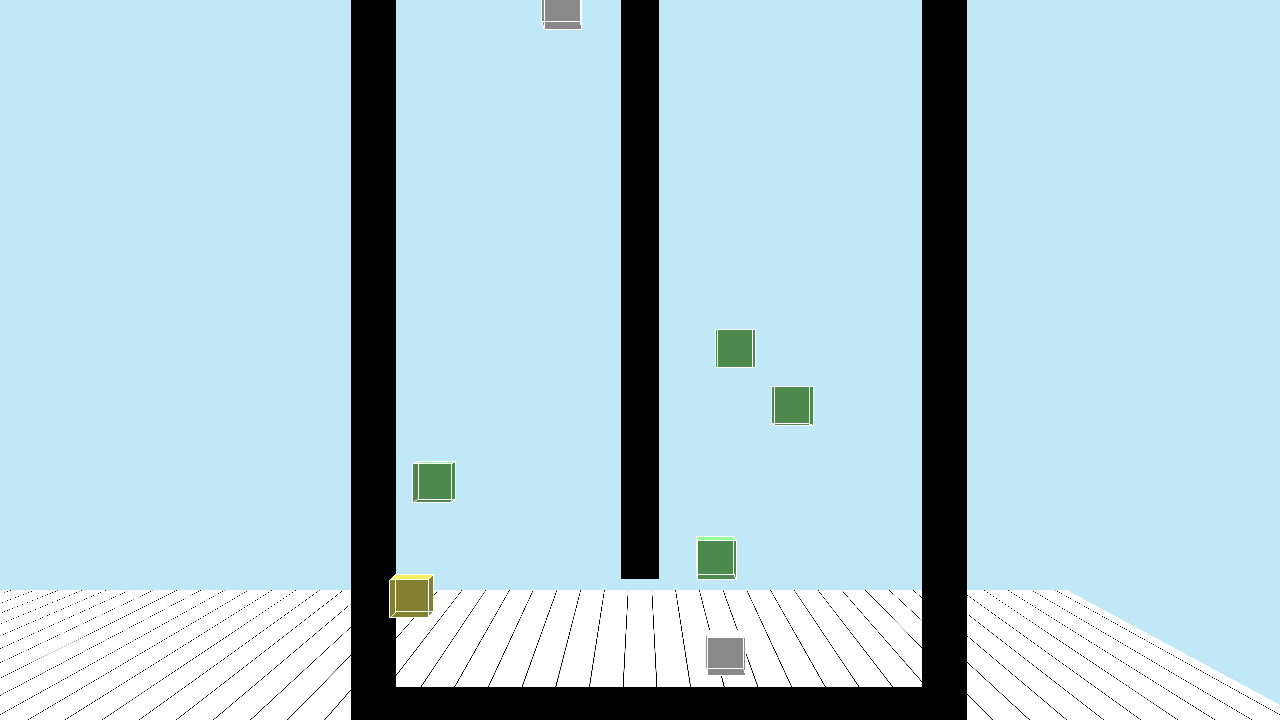
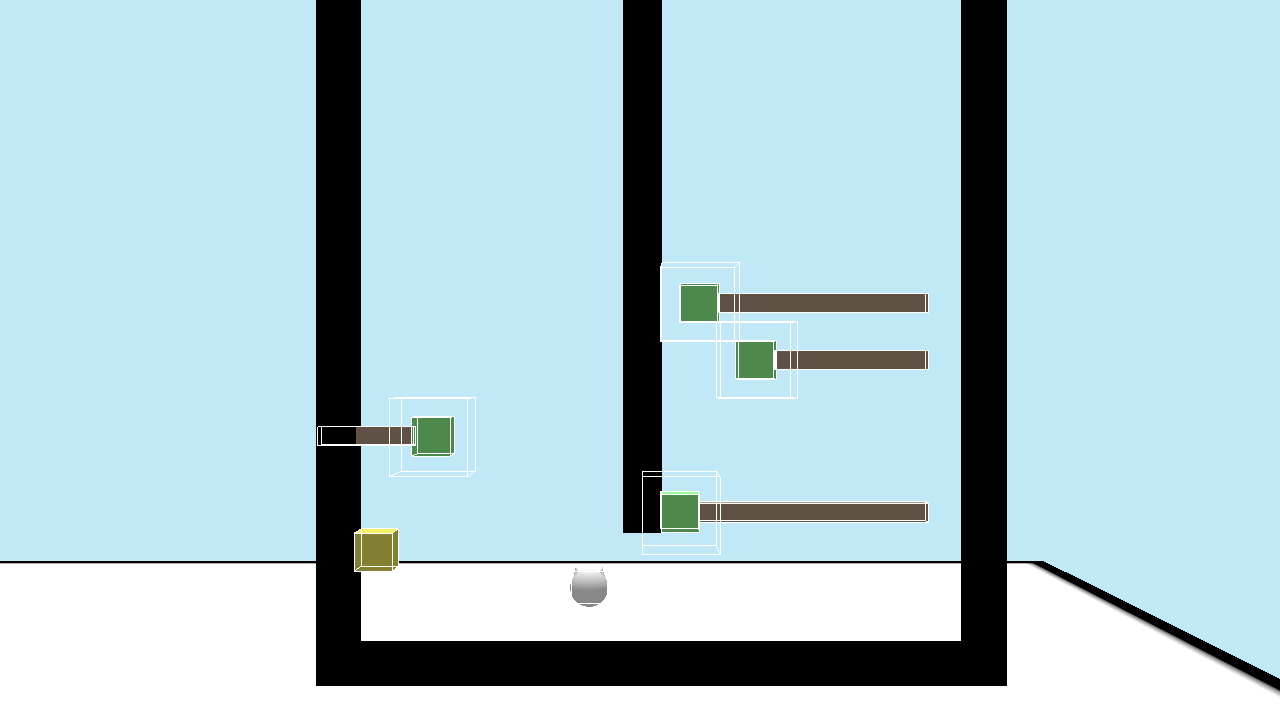
コミット

Changed region(s): [[0.0, 0.0, 1.0, 1.0], [0.4062, 0.0, 0.4688, 0.0611]]

diff --git a/Application/Objects/EnemyManager/SideEnemy.cpp b/Application/Objects/EnemyManager/SideEnemy.cpp
@@ -1,6 +1,9 @@
 #include "SideEnemy.h"
 #include "../Player/Player.h"
 
+// DX
+#include <DirectXMath.h>
+
 SideEnemy::~SideEnemy()
 {
 	aabbCollider_->~AABBCollider();
@@ -12,7 +15,7 @@ void SideEnemy::Initialize(Camera* camera)
 
 	obj_ = std::make_unique<Object3d>();
 	obj_->Initialize();
-	obj_->SetModel("cube.obj");
+	obj_->SetModel("needle_Body.obj");
 	obj_->SetMaterialColor({ 1.0f,1.0f,1.0f,1.0f });
 
 	worldTransform_.Initialize();
@@ -131,8 +134,10 @@ void SideEnemy::Move()
 	// 左右移動
 	if (moveRight_) {
 		velocity_.x = speed_;
+		worldTransform_.rotation_.y = 0.0f; // 右向き
 	} else {
 		velocity_.x = -speed_;
+		worldTransform_.rotation_.y = DirectX::XMConvertToRadians(180.0f); // 左向き（180度回転）
 	}
 
 	// 現在のワールド座標を使って、前方のマップを調べる
